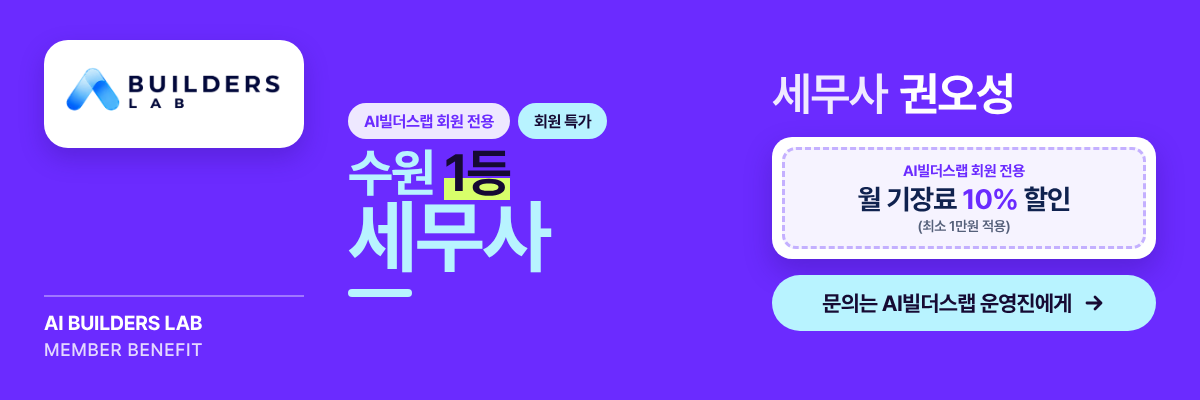
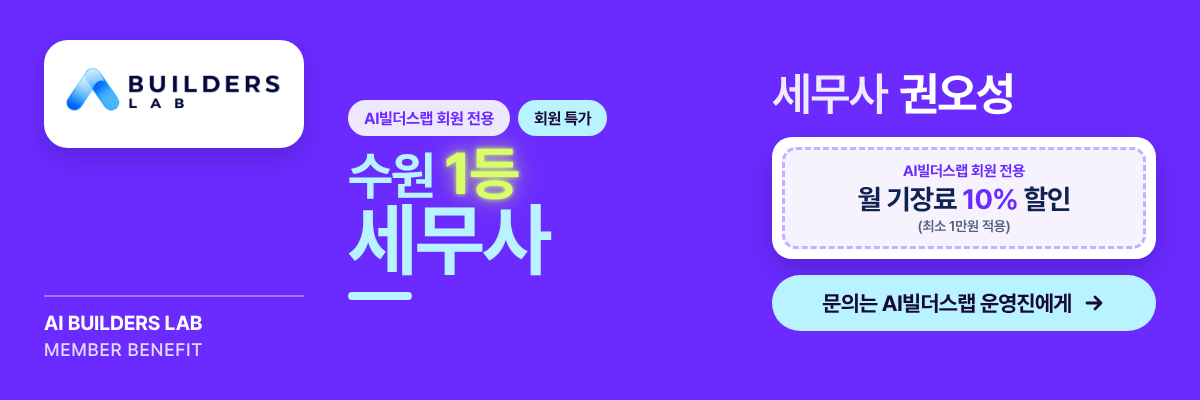
C-violet '1등'을 네온라임으로 바꿔 시인성 개선
검은 글자+형광펜 처리를 제거하고, 보라 바탕에서 대비가 더 큰 #D8FF6A와 은은한 글로우로 강조한다.

Changed region(s): [[0.2775, 0.24, 0.4933, 0.66], [0.2775, 0.72, 0.3392, 0.75], [0.3083, 0.66, 0.3392, 0.69]]

diff --git a/src/banner-C-violet-vertical.html b/src/banner-C-violet-vertical.html
@@ -39,8 +39,8 @@
   .mega .l1, .mega .l2 { display: block; line-height: 0.95; }
   .mega .l1 { font-size: 152px; }
   .mega .l2 { font-size: 200px; }
-  .mega em { font-style: normal; color: #160A33;
-             background: linear-gradient(transparent 58%, #D8FF6A 58%, #D8FF6A 94%, transparent 94%); }
+  .mega em { font-style: normal; color: #D8FF6A; background: none; font-size: 1.12em;
+             text-shadow: 0 0 0.08em rgba(216,255,106,0.95), 0 0 0.28em rgba(216,255,106,0.55), 0 0 0.55em rgba(216,255,106,0.35); }
   .name { margin-top: 28px; font-size: 112px; line-height: 1.1; font-weight: 800; letter-spacing: -0.03em; }
   .name small { font-size: 112px; font-weight: 600; opacity: 0.9; margin-right: 24px; }
   .sub { margin-top: 36px; font-size: 40px; line-height: 1.45; font-weight: 500; color: rgba(255,255,255,0.88); letter-spacing: -0.02em; }

diff --git a/src/banner-C-violet-horizontal.html b/src/banner-C-violet-horizontal.html
@@ -34,8 +34,8 @@
   .mega .l1, .mega .l2 { display: block; line-height: 0.95; white-space: nowrap; }
   .mega .l1 { font-size: 52px; }
   .mega .l2 { font-size: 80px; }
-  .mega em { font-style: normal; color: #160A33;
-             background: linear-gradient(transparent 58%, #D8FF6A 58%, #D8FF6A 94%, transparent 94%); }
+  .mega em { font-style: normal; color: #D8FF6A; background: none; font-size: 1.12em;
+             text-shadow: 0 0 0.08em rgba(216,255,106,0.95), 0 0 0.28em rgba(216,255,106,0.55), 0 0 0.55em rgba(216,255,106,0.35); }
   .bar { margin-top: 14px; width: 64px; height: 8px; border-radius: 4px; background: #B8F3FF; }
 
   .right { flex: none; width: 384px; display: flex; flex-direction: column; justify-content: center; }
